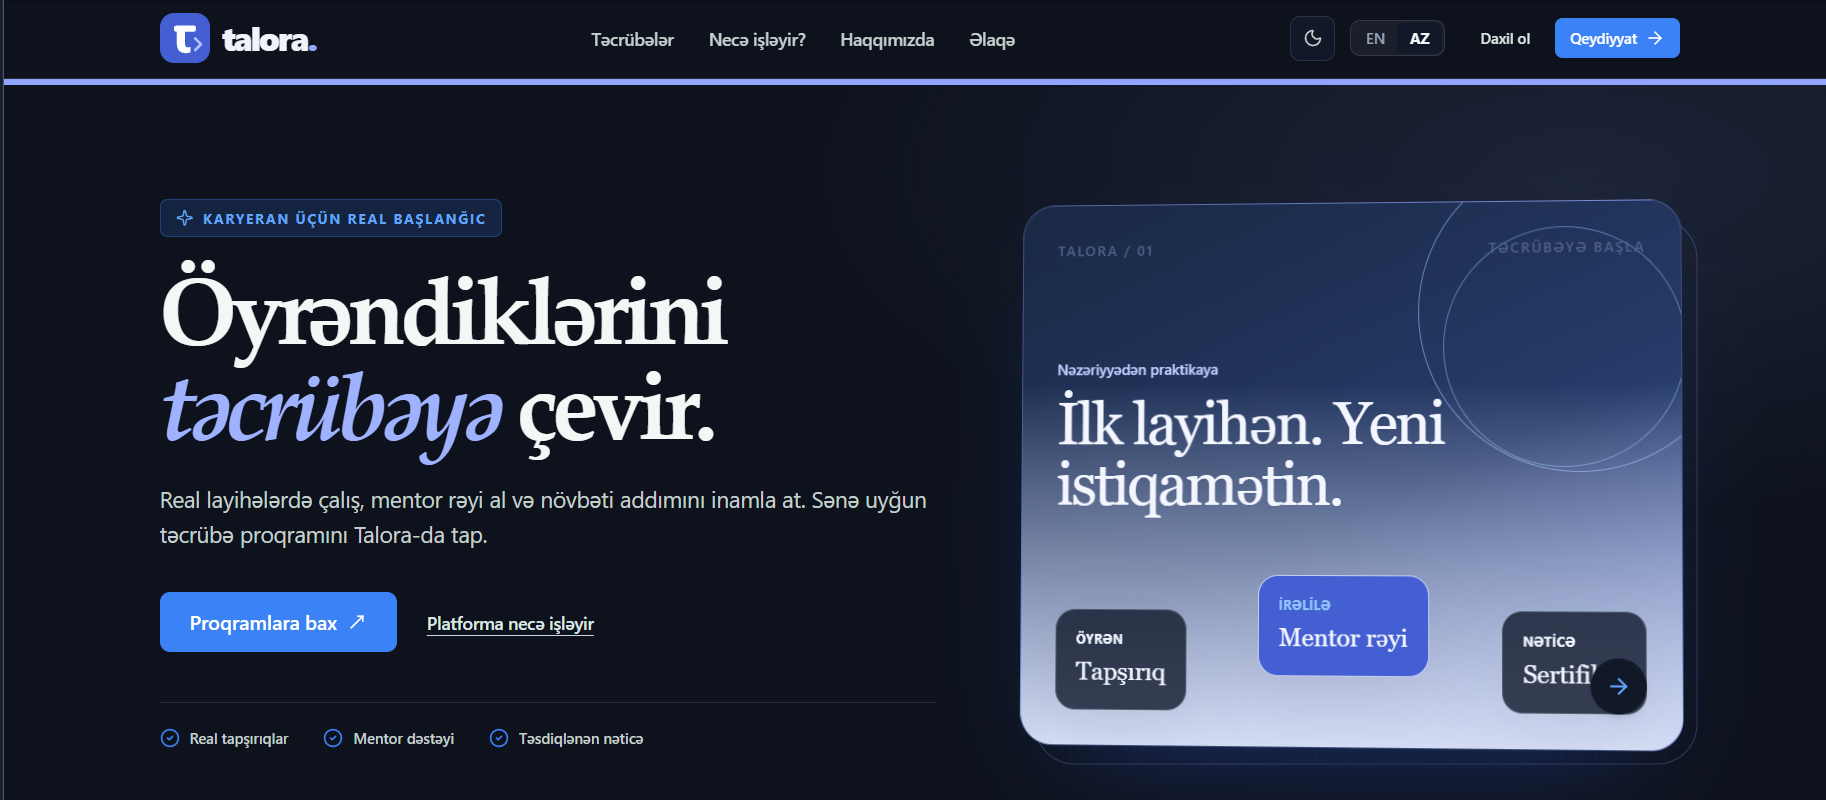
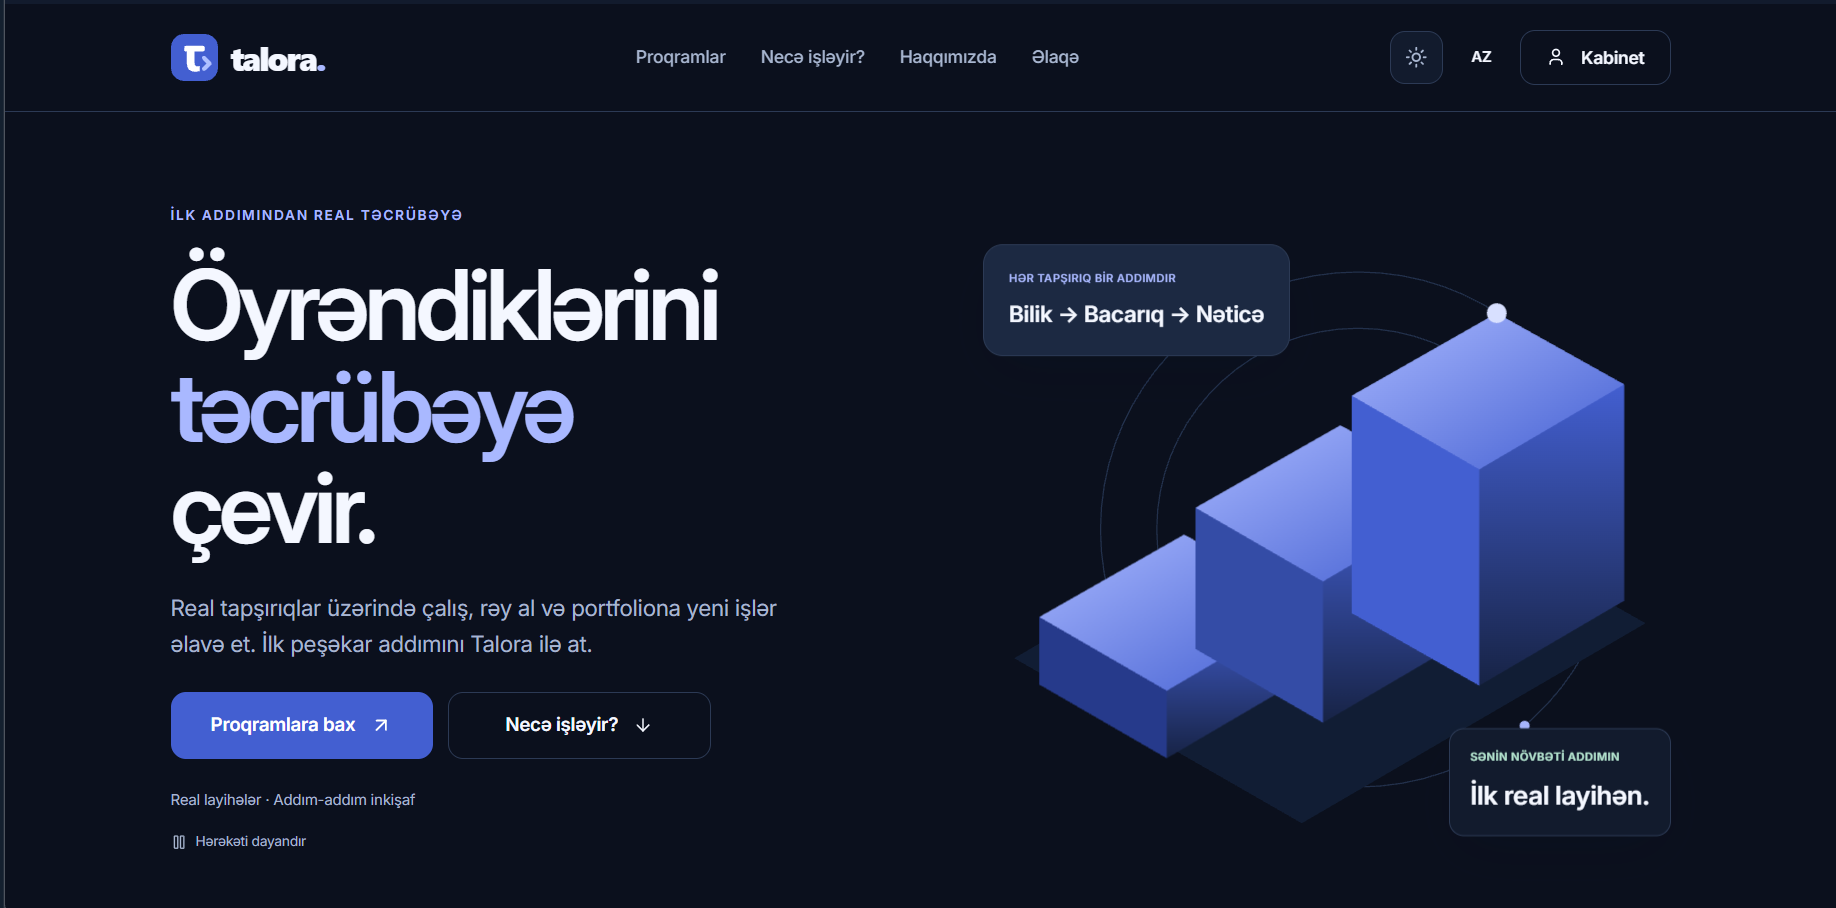
feat: scroll-reveal text animations, new hero photo, updated Talora screenshot

diff --git a/script.js b/script.js
@@ -519,3 +519,104 @@ const translations = {
     });
   }
 })();
+
+/* ---------------------------------------------------------
+   Scroll-reveal text animations
+   Every animated element is tagged from JS, so if scripting
+   is unavailable the page stays fully readable.
+   --------------------------------------------------------- */
+(function () {
+  if (!("IntersectionObserver" in window)) return;
+  if (window.matchMedia("(prefers-reduced-motion: reduce)").matches) return;
+
+  document.documentElement.classList.add("js-anim");
+
+  /* Split the hero headline into masked lines so each line
+     rises on its own instead of the whole block moving as one. */
+  const heroH1 = document.querySelector(".hero-copy h1");
+  if (heroH1 && !heroH1.dataset.animSplit) {
+    heroH1.dataset.animSplit = "1";
+    heroH1.innerHTML = heroH1.innerHTML
+      .split(/<br\s*\/?>/i)
+      .map(function (chunk) {
+        return chunk.trim()
+          ? '<span class="anim-line"><span class="anim-line-inner">' + chunk + "</span></span>"
+          : "";
+      })
+      .join("");
+  }
+
+  const groups = [
+    { selector: ".hero-topline > *", type: "up" },
+    { selector: ".hero-kicker", type: "up" },
+    { selector: ".hero-copy h1", type: "fade" },
+    { selector: ".hero-intro", type: "up" },
+    { selector: ".hero-actions .pill", type: "up" },
+    { selector: ".hero-socials a", type: "up" },
+    { selector: ".portrait-frame", type: "up" },
+    { selector: ".band-stat", type: "up" },
+    { selector: ".band-copy h2", type: "clip" },
+    { selector: ".about-heading .eyebrow", type: "up" },
+    { selector: ".about-heading h2", type: "clip" },
+    { selector: ".about-copy p", type: "up" },
+    { selector: ".about-copy .text-link", type: "up" },
+    { selector: ".section-intro .eyebrow", type: "up" },
+    { selector: ".section-intro h2", type: "clip" },
+    { selector: ".section-intro > p", type: "up" },
+    { selector: ".editorial-project", type: "up" },
+    { selector: ".view-all", type: "up" },
+    { selector: ".service-title .eyebrow", type: "up" },
+    { selector: ".service-title h2", type: "clip" },
+    { selector: ".service-list > div", type: "up" },
+    { selector: ".contact-band .eyebrow", type: "up" },
+    { selector: ".contact-band h2", type: "clip" },
+    { selector: ".contact-band .pill", type: "up" },
+    { selector: ".hero-role", type: "up" },
+    { selector: "#page-heading", type: "clip" },
+    { selector: ".tagline", type: "up" },
+    { selector: ".proj", type: "up" },
+    { selector: ".direct-contact", type: "up" },
+    { selector: ".form-group", type: "up" },
+    { selector: "#contact-form button[type=submit]", type: "up" },
+    { selector: ".footer-logo", type: "up" },
+    { selector: ".footer-tagline", type: "up" },
+    { selector: ".footer-col", type: "up" }
+  ];
+
+  const seen = new Set();
+  const targets = [];
+
+  groups.forEach(function (group) {
+    document.querySelectorAll(group.selector).forEach(function (el) {
+      if (seen.has(el)) return;
+      seen.add(el);
+      el.setAttribute("data-anim", group.type);
+      targets.push(el);
+    });
+  });
+
+  /* Stagger siblings so related elements cascade instead of
+     appearing all at once. */
+  const counters = new Map();
+  targets.forEach(function (el) {
+    const parent = el.parentElement;
+    const index = counters.get(parent) || 0;
+    counters.set(parent, index + 1);
+    el.style.setProperty("--anim-delay", Math.min(index, 6) * 80 + "ms");
+  });
+
+  const observer = new IntersectionObserver(
+    function (entries) {
+      entries.forEach(function (entry) {
+        if (!entry.isIntersecting) return;
+        entry.target.classList.add("anim-in");
+        observer.unobserve(entry.target);
+      });
+    },
+    { threshold: 0.12, rootMargin: "0px 0px -6% 0px" }
+  );
+
+  targets.forEach(function (el) {
+    observer.observe(el);
+  });
+})();

diff --git a/styles.css b/styles.css
@@ -74,3 +74,13 @@ legend{font-family:var(--mono);font-size:15px;font-weight:600;letter-spacing:-.0
 @media(max-width:800px){.contact-grid{grid-template-columns:1fr;gap:34px}.footer-grid{grid-template-columns:1fr 1fr;gap:30px}.proj-grid{grid-template-columns:1fr;gap:18px;padding-bottom:95px}.page-head{padding:52px 0 42px}}
 @media(max-width:470px){.footer-grid{grid-template-columns:1fr}.nav-right{flex-wrap:wrap;gap:9px}.status-dot{top:70px;right:16px}}@media(max-width:800px){.wrap{width:min(100% - 30px,620px)}.nav{height:70px;gap:12px}.logo{font-size:10px}.navlinks{gap:11px;font-size:10px}.nav-tools{margin-left:0}.hero-grid,.about-editorial,.services-section{grid-template-columns:1fr}.editorial-hero{padding-bottom:65px}.hero-grid{padding-top:48px;gap:60px}.hero-copy h1{font-size:clamp(70px,20vw,130px)}.hero-copy h1 em{margin-left:12vw}.portrait-frame{width:calc(100% - 36px);margin:0 18px;justify-self:center}.olive-band{grid-template-columns:1fr 1fr}.band-copy{grid-column:span 2;min-height:120px}.about-editorial{padding:85px 0}.about-copy{margin-top:20px}.section-intro{display:block}.section-intro>p{margin-top:22px}.editorial-projects{grid-template-columns:1fr;gap:45px}.project-a{grid-row:auto}.project-image,.project-a .project-image{aspect-ratio:1.45}.project-d .project-image{aspect-ratio:2.05}.services-section{padding-bottom:85px}.service-title{margin-bottom:30px}.contact-band{min-height:300px}.footer-main,.footer-bottom{display:block}.footer-links{margin-top:35px;flex-wrap:wrap}.footer-bottom span+span{display:block;margin-top:10px}}
 @media(max-width:470px){.navlinks a:first-child{display:none}.nav{justify-content:space-between}.hero-topline span:last-child{display:none}.hero-topline{font-size:8px}.portrait-label-left{left:-12px}.portrait-label-right{right:-12px}.band-stat,.band-copy{padding:22px 17px}.band-stat strong{font-size:32px}.band-stat span{font-size:8px}.service-list{grid-template-columns:1fr}.service-list>div:nth-child(odd){padding-right:0;border-right:0}.service-list>div:nth-child(even){padding-left:0}.footer-links{gap:15px}}
+/* ===== Text animations (scroll reveal) ===== */
+.js-anim [data-anim]{opacity:0;transform:translateY(26px);transition:opacity .8s cubic-bezier(.22,.8,.28,1),transform .8s cubic-bezier(.22,.8,.28,1);transition-delay:var(--anim-delay,0ms)}
+.js-anim [data-anim].anim-in{opacity:1;transform:none}
+.js-anim [data-anim=fade]{transform:none}
+.js-anim [data-anim=clip]{opacity:1;transform:none;clip-path:inset(0 0 106% 0);transition:clip-path 1s cubic-bezier(.65,0,.35,1);transition-delay:var(--anim-delay,0ms)}
+.js-anim [data-anim=clip].anim-in{clip-path:inset(-25% -9% -22% -9%)}
+.anim-line{display:block;overflow:hidden;padding-bottom:.16em;margin-bottom:-.16em}
+.anim-line-inner{display:block;transform:translateY(115%);transition:transform 1.05s cubic-bezier(.19,1,.22,1);transition-delay:var(--anim-delay,0ms)}
+.js-anim [data-anim].anim-in .anim-line-inner{transform:none}
+@media(prefers-reduced-motion:reduce){.js-anim [data-anim]{opacity:1!important;transform:none!important;clip-path:none!important;transition:none!important}.anim-line-inner{transform:none!important;transition:none!important}}

diff --git a/index.html b/index.html
@@ -18,7 +18,7 @@
     <main id="main">
       <section class="editorial-hero wrap"><div class="hero-topline"><span>© 2026</span><span class="hero-availability"><i></i><span data-i18n="availability">iş üçün açığam</span></span><span>Mingəçevir / AZ</span></div><div class="hero-grid">
         <div class="hero-copy reveal"><p class="hero-kicker" data-i18n="hero.role">Vibe Coder / AI-Assisted Full-stack Developer</p><h1>Ömər<br><em>Babayev</em></h1><p class="hero-intro" data-i18n-html="hero.tagline.html">Fikri prompt-a, prompt-u işlək məhsula çevirirəm. Next.js, FastAPI və <strong>Supabase</strong> ilə ideyadan production-a qədər.</p><div class="hero-actions"><a class="pill pill-dark" href="projects.html" data-i18n="hero.projects">Layihələrə bax <b>↗</b></a><a class="pill pill-outline" href="contact.html" data-i18n="hero.contact">Əlaqə <b>↗</b></a></div><div class="hero-socials"><a href="https://github.com/etikhacker" target="_blank" rel="noopener">GitHub ↗</a><a href="https://www.linkedin.com/in/omar-babayev-21888437b" target="_blank" rel="noopener">LinkedIn ↗</a></div></div>
-        <div class="portrait-frame reveal reveal-delay"><div class="portrait-label portrait-label-left">AI<br>INTEGRATOR</div><img src="assets/omar-about.jpg" alt="Ömər Babayev server otağında"><div class="portrait-label portrait-label-right">FULL-STACK<br>DEVELOPER</div><span class="portrait-cross cross-one">+</span><span class="portrait-cross cross-two">+</span></div>
+        <div class="portrait-frame reveal reveal-delay"><div class="portrait-label portrait-label-left">AI<br>INTEGRATOR</div><img src="assets/omar-about-2026.jpg" alt="Ömər Babayev məruzədə"><div class="portrait-label portrait-label-right">FULL-STACK<br>DEVELOPER</div><span class="portrait-cross cross-one">+</span><span class="portrait-cross cross-two">+</span></div>
       </div></section>
       <section class="olive-band wrap reveal"><div class="band-stat"><strong>10</strong><span data-i18n="stats.projects">production layihə</span></div><div class="band-stat"><strong>03</strong><span data-i18n="stats.internships">internship təcrübəsi</span></div><div class="band-stat"><strong>∞</strong><span data-i18n="stats.learning">öyrənmə və iterasiya</span></div><div class="band-copy"><span class="section-number">01</span><h2 data-i18n="about.heading">Haqqımda</h2></div></section>
       <section class="about-editorial wrap reveal"><div class="about-heading"><span class="eyebrow">/ about me</span><h2 data-i18n="about.lead">Texnologiyanı sadəcə yazmıram — real problemlər üçün işlək sistemlərə çevirirəm.</h2></div><div class="about-copy"><p data-i18n="about.body">IT tələbəsiyəm — Mingəçevir Dövlət Universitetində (2024–2028) təhsil alıram — və paralel olaraq freelance əsaslı vibe coder kimi çalışıram.</p><a class="text-link" href="contact.html" data-i18n="hero.contact">Mənimlə əlaqə saxla ↗</a></div></section>
